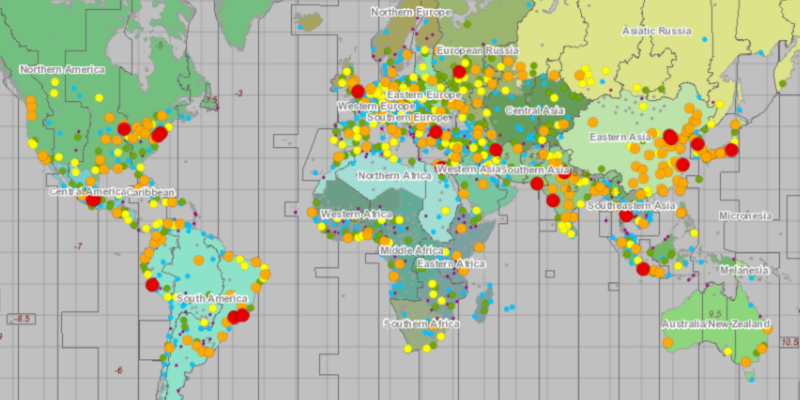
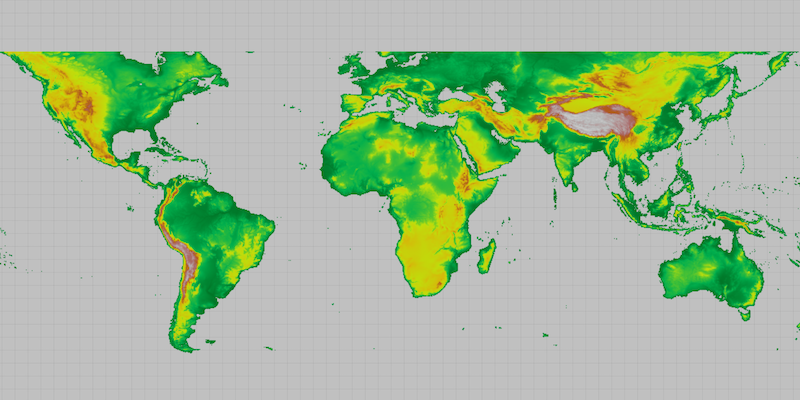
update sample

diff --git a/ogc/wmts-layer/src/main/java/com/esri/samples/wmts_layer/WmtsLayerSample.java b/ogc/wmts-layer/src/main/java/com/esri/samples/wmts_layer/WmtsLayerSample.java
@@ -17,11 +17,7 @@
 package com.esri.samples.wmts_layer;
 
 import java.util.List;
-import javafx.application.Application;
-import javafx.scene.Scene;
-import javafx.scene.control.Alert;
-import javafx.scene.layout.StackPane;
-import javafx.stage.Stage;
+import java.util.stream.Collectors;
 
 import com.esri.arcgisruntime.layers.WmtsLayer;
 import com.esri.arcgisruntime.loadable.LoadStatus;
@@ -31,6 +27,11 @@ import com.esri.arcgisruntime.mapping.view.MapView;
 import com.esri.arcgisruntime.ogc.wmts.WmtsLayerInfo;
 import com.esri.arcgisruntime.ogc.wmts.WmtsService;
 import com.esri.arcgisruntime.ogc.wmts.WmtsServiceInfo;
+import javafx.application.Application;
+import javafx.scene.Scene;
+import javafx.scene.control.Alert;
+import javafx.scene.layout.StackPane;
+import javafx.stage.Stage;
 
 public class WmtsLayerSample extends Application {
 
@@ -58,15 +59,17 @@ public class WmtsLayerSample extends Application {
       mapView.setMap(map);
 
       // create a WMTS service from a URL
-      String serviceURL = "https://sampleserver6.arcgisonline.com/arcgis/rest/services/WorldTimeZones/MapServer/WMTS";
+      String serviceURL = "https://gibs.earthdata.nasa.gov/wmts/epsg4326/best";
       wmtsService = new WmtsService(serviceURL);
       wmtsService.addDoneLoadingListener(() -> {
         if (wmtsService.getLoadStatus() == LoadStatus.LOADED) {
           WmtsServiceInfo wmtsServiceInfo = wmtsService.getServiceInfo();
-          // get the first layer's ID
-          List<WmtsLayerInfo> layerInfos = wmtsServiceInfo.getLayerInfos();
+          // Obtain the read only list of WMTS layer info objects, and select the one with the desired Id value.
+          List<WmtsLayerInfo> wmtsLayerInfos = wmtsServiceInfo.getLayerInfos();
+          WmtsLayerInfo layerInfo = wmtsLayerInfos.stream()
+            .filter(layer -> layer.getId().equals("SRTM_Color_Index")).collect(Collectors.toList()).get(0);
           // create the WMTS layer with the LayerInfo
-          WmtsLayer wmtsLayer = new WmtsLayer(layerInfos.get(0));
+          WmtsLayer wmtsLayer = new WmtsLayer(layerInfo);
           map.setBasemap(new Basemap(wmtsLayer));
         } else {
           Alert alert = new Alert(Alert.AlertType.ERROR, "Failed to load WMTS layer");

diff --git a/ogc/wmts-layer/README.md b/ogc/wmts-layer/README.md
@@ -15,9 +15,9 @@ Pan and zoom to explore the WMTS layer, which is displayed automatically.
 ## How it works
  
 1. Create a `WmtsService` using the URL of the WMTS Service.
-1. After loading the WMTS service, get the list of `WmtsLayerInfos` from the service info: `service.getServiceInfo().getLayerInfos()`
-1. Use one of the layer infos to create a new `WmtsLayer(layerInfos.get(0))`
-1. Set it as the map's basemap with `map.setBasemap(new Basemap(wmtsLayer))`.
+2. After loading the WMTS service, get the list of `WmtsLayerInfos` from the service info: `service.getServiceInfo().getLayerInfos()`
+3. Use one of the layer infos to create a new `WmtsLayer(layerInfo)`
+4. Set it as the map's basemap with `map.setBasemap(new Basemap(wmtsLayer))`.
 
 ## Relevant API
 
@@ -28,7 +28,7 @@ Pan and zoom to explore the WMTS layer, which is displayed automatically.
 
 ## About the data
 
-The map visualizes world time zones.
+We acknowledge the use of imagery provided by services from the [Global Imagery Browse Services (GIBS)](https://wiki.earthdata.nasa.gov/display/GIBS/), operated by the [NASA/GSFC/Earth Science Data and Information System (ESDIS)](https://earthdata.nasa.gov/) with funding provided by NASA/HQ.
 
 ## Tags
 
